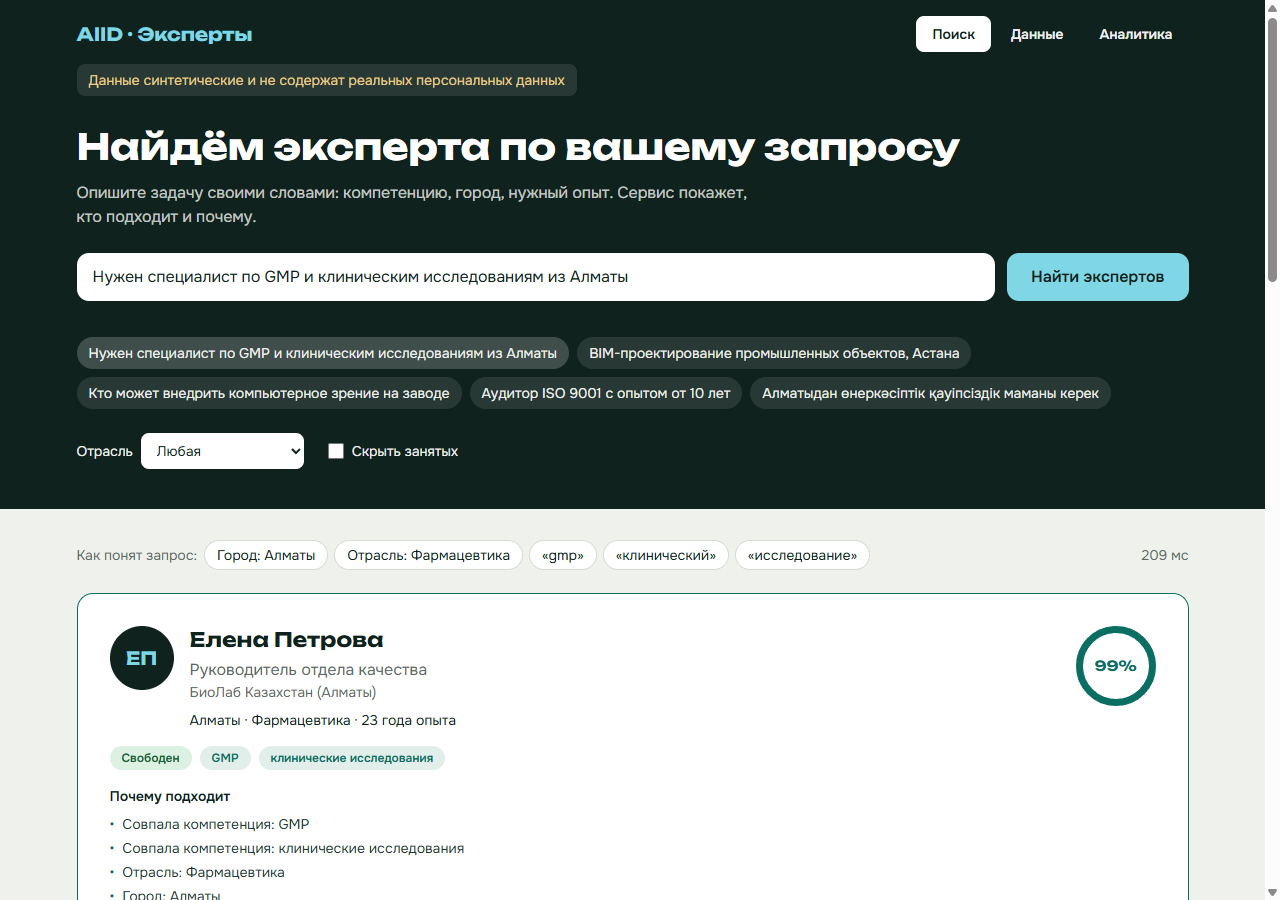
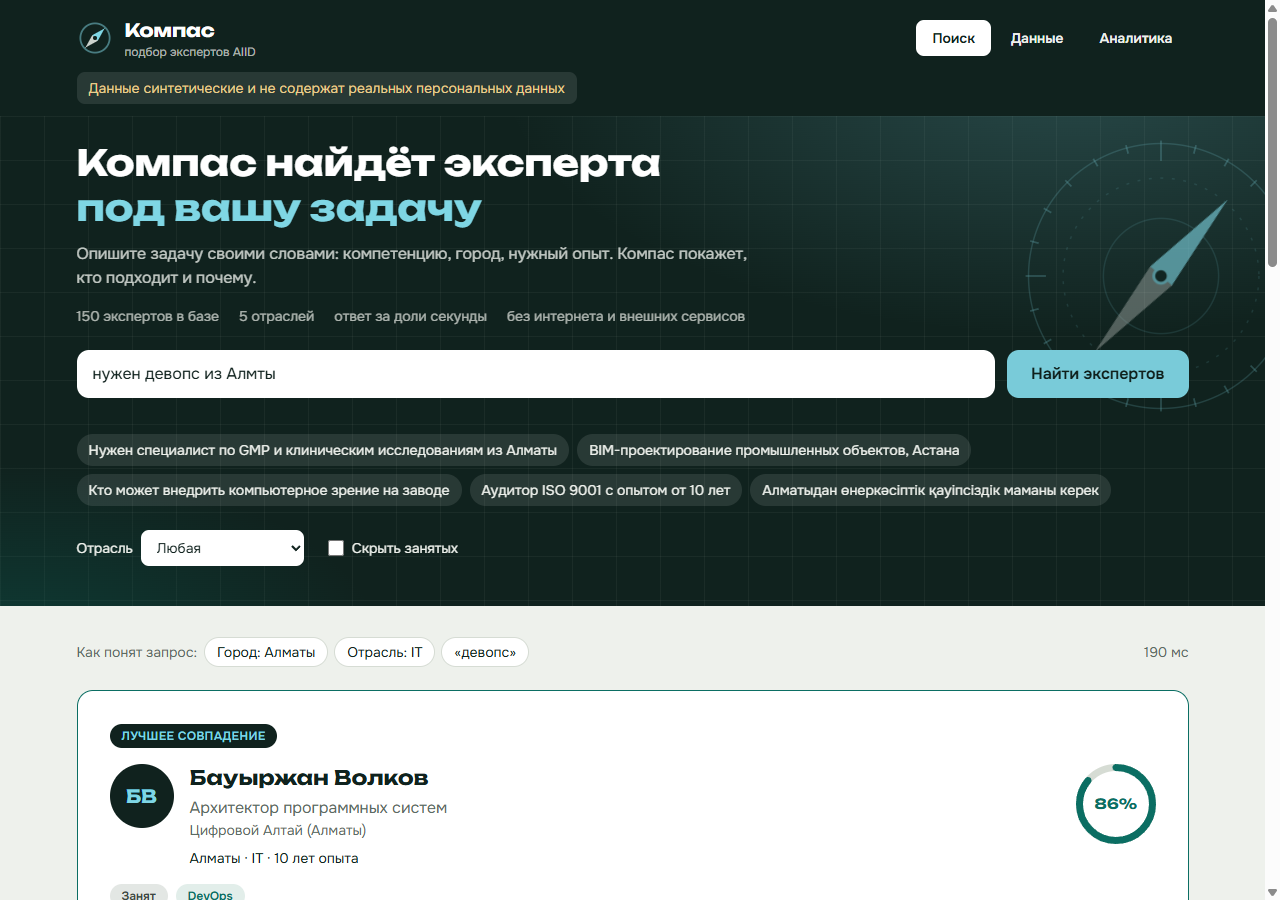
docs(docs): назвать проект «Компас» и обновить скриншот

diff --git a/AGENTS.md b/AGENTS.md
@@ -241,6 +241,9 @@ CSV в UTF-8, компетенции через `;`.
 | Аббревиатуры (ИИ, ML, GMP) не лемматизируются | pymorphy превращал «ИИ» в «ия» и ломал разбор запроса |
 | Эталон по правилу, а не по id (`eval_jury`) | после разнообразия данных появились другие настоящие совпадения; считаем релевантным каждого, у кого есть нужная компетенция |
 | Версии зависимостей закреплены | пересборка Docker не должна менять поведение накануне демо |
+| Название «Компас» | запрос указывает направление, сервис показывает, куда оно ведёт: понятный образ для логотипа, шапки и питча |
+| Цвет кольца процента зависит от силы совпадения | 26% не должно выглядеть как успех: от 70% зелёный, от 40% янтарный, ниже серый |
+| Опечатки в городах через `difflib` (порог в `config.py`) | жюри вводит запросы руками; слова короче 5 букв не правим, чтобы не превращать обычные слова в города |
 
 Новое решение дописываем строкой в эту таблицу.
 

diff --git a/README.md b/README.md
@@ -1,4 +1,4 @@
-# Подбор экспертов AIID
+# Компас: подбор экспертов AIID
 
 Сервис находит экспертов Альянса по запросу обычным языком и объясняет выбор. Работает полностью офлайн.
 
